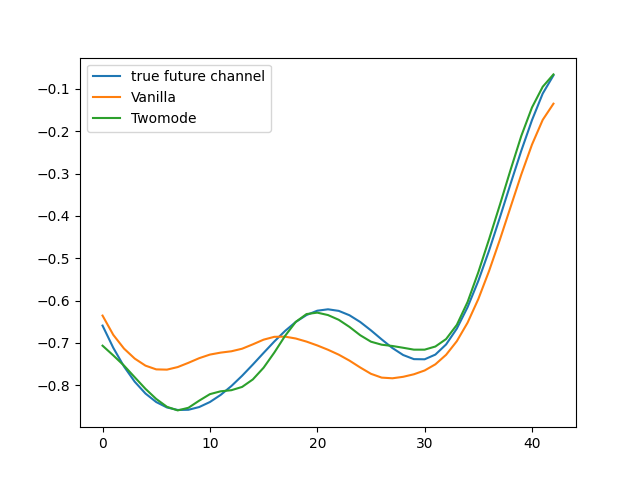
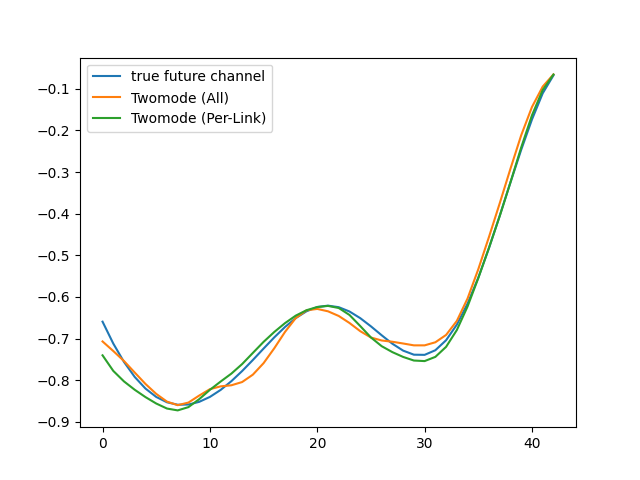
doing per-link twomode WESN

diff --git a/dmimo/dmimo_chanpred.py b/dmimo/dmimo_chanpred.py
@@ -199,7 +199,7 @@ class MU_MIMO(Model):
                                     batch_size=self.batch_size)
             h_freq_csi_true = rc_predictor_vanilla.rb_mapper(h_freq_csi_true)
             
-            h_freq_csi_vanilla = rc_predictor_vanilla.predict(h_freq_csi_history)
+            h_freq_csi_vanilla = rc_predictor_vanilla.predict(h_freq_csi_history[-3:,...])
             pred_nmse_wesn = self.nmse(h_freq_csi_true[0,...], h_freq_csi_vanilla[0,...])
             print("Vanilla WESN NMSE: ", pred_nmse_wesn)
 
@@ -220,22 +220,78 @@ class MU_MIMO(Model):
 
 
 
-            # Use 2-mode ESN to do WESN based prediction
+            # Use 2-mode ESN to do WESN based prediction (all together)
             twomode_predictor = twomode_wesn_pred(rc_config=self.rc_config, 
                                                  num_freq_re=RB, 
                                                  num_rx_ant=RxAnt, 
                                                  num_tx_ant=TxAnt
                                                  )
-            h_freq_csi_twomode = twomode_predictor.predict(h_freq_csi_history)
-            pred_nmse_twomode_wesn = self.nmse(h_freq_csi_true[0,...], h_freq_csi_twomode[0,...])
-            print("Two-Mode WESN NMSE: ", pred_nmse_twomode_wesn)
+            h_freq_csi_twomode_all = twomode_predictor.predict(h_freq_csi_history)
+            pred_nmse_twomode_wesn_all = self.nmse(h_freq_csi_true[0,...], h_freq_csi_twomode_all[0,...])
+            print("Two-Mode (All) WESN NMSE: ", pred_nmse_twomode_wesn_all)
 
-            # plt.figure()
-            # plt.plot(np.real(h_freq_csi_true[0,0,0,0,0,0,:]), label='true future channel')
+
+
+
+
+
+
+
+
+
+
+
+
+
+
+
+            # Use 2-mode ESN to do WESN based prediction (per_tx_rx_node_pair)
+
+            h_freq_csi_twomode_per_link = np.zeros(h_freq_csi_history[0,...].shape, dtype=h_freq_csi_history.dtype)
+            num_bs_ant = 4
+            num_ue_ant = 2
+
+            for tx_node_idx in range(self.cfg.num_tx_ue_sel+1):
+                for rx_node_idx in range(self.cfg.num_rx_ue_sel+1):
+                    if tx_node_idx == 0:
+                        tx_ant_idx = np.arange(0,num_bs_ant)
+                    else:
+                        tx_ant_idx = np.arange(num_bs_ant + (tx_node_idx-1)*num_ue_ant,num_bs_ant + (tx_node_idx)*num_ue_ant)
+                    TxAnt = len(tx_ant_idx)
+
+                    if rx_node_idx == 0:
+                        rx_ant_idx = np.arange(0,num_bs_ant)
+                    else:
+                        rx_ant_idx = np.arange(num_bs_ant + (rx_node_idx-1)*num_ue_ant,num_bs_ant + (rx_node_idx)*num_ue_ant)
+                    RxAnt = len(rx_ant_idx)
+
+                    curr_h_freq_csi_history = h_freq_csi_history[:,:,:,rx_ant_idx,:,...]
+                    curr_h_freq_csi_history = curr_h_freq_csi_history[:,:,:,:,:,tx_ant_idx,...]
+                    
+                    twomode_predictor = twomode_wesn_pred(rc_config=self.rc_config, 
+                                                num_freq_re=RB, 
+                                                num_rx_ant=RxAnt, 
+                                                num_tx_ant=TxAnt
+                                                )
+                    rx_idx, tx_idx = np.ix_(rx_ant_idx, tx_ant_idx)
+                    tmp = np.asarray(twomode_predictor.predict(curr_h_freq_csi_history))
+                    h_freq_csi_twomode_per_link[:, :, rx_idx, :, tx_idx, :, :] = tmp.transpose(2, 4, 0, 1, 3, 5, 6)
+
+            pred_nmse_twomode_wesn_per_link = self.nmse(h_freq_csi_true[0,...], h_freq_csi_twomode_per_link[0,...])
+            print("Two-Mode (Per-Link) WESN NMSE: ", pred_nmse_twomode_wesn_per_link)
+
+            plt.figure()
+            plt.plot(np.real(h_freq_csi_true[0,0,0,0,0,0,:]), label='true future channel')
             # plt.plot(np.real(h_freq_csi_vanilla[0,0,0,0,0,0,:]), label='Vanilla')
-            # plt.plot(np.real(h_freq_csi_twomode[0,0,0,0,0,0,:]), label='Twomode')
-            # plt.legend()
-            # plt.savefig('b')
+            plt.plot(np.real(h_freq_csi_twomode_all[0,0,0,0,0,0,:]), label='Twomode (All)')
+            plt.plot(np.real(h_freq_csi_twomode_per_link[0,0,0,0,0,0,:]), label='Twomode (Per-Link)')
+            plt.legend()
+            plt.savefig('b')
+
+
+
+
+
 
 
 
@@ -247,22 +303,22 @@ class MU_MIMO(Model):
 
 
             # Use 2-mode Graph ESN to do WESN based prediction
-            graph_twomode_predictor = twomode_graph_wesn_pred(rc_config=self.rc_config, 
-                                                 num_freq_re=RB, 
-                                                 num_rx_ant=RxAnt, 
-                                                 num_tx_ant=TxAnt
-                                                )
-            h_freq_csi_graph_twomode = graph_twomode_predictor.predict(h_freq_csi_history)
-            pred_nmse_graph_twomode_wesn = self.nmse(h_freq_csi_true[0,...], h_freq_csi_graph_twomode[0,...])
-            print("Two-Mode Graph WESN NMSE: ", pred_nmse_graph_twomode_wesn)
+            # graph_twomode_predictor = twomode_graph_wesn_pred(rc_config=self.rc_config, 
+            #                                      num_freq_re=RB, 
+            #                                      num_rx_ant=RxAnt, 
+            #                                      num_tx_ant=TxAnt
+            #                                     )
+            # h_freq_csi_graph_twomode = graph_twomode_predictor.predict(h_freq_csi_history)
+            # pred_nmse_graph_twomode_wesn = self.nmse(h_freq_csi_true[0,...], h_freq_csi_graph_twomode[0,...])
+            # print("Two-Mode Graph WESN NMSE: ", pred_nmse_graph_twomode_wesn)
 
-            plt.figure()
-            plt.plot(np.real(h_freq_csi_true[0,0,0,0,0,0,:]), label='true future channel')
-            plt.plot(np.real(h_freq_csi_vanilla[0,0,0,0,0,0,:]), label='Vanilla')
-            plt.plot(np.real(h_freq_csi_twomode[0,0,0,0,0,0,:]), label='Twomode')
-            plt.plot(np.real(h_freq_csi_graph_twomode[0,0,0,0,0,0,:]), label='Graph Twomode')
-            plt.legend()
-            plt.savefig('a')
+            # plt.figure()
+            # plt.plot(np.real(h_freq_csi_true[0,0,0,0,0,0,:]), label='true future channel')
+            # plt.plot(np.real(h_freq_csi_vanilla[0,0,0,0,0,0,:]), label='Vanilla')
+            # plt.plot(np.real(h_freq_csi_twomode[0,0,0,0,0,0,:]), label='Twomode')
+            # plt.plot(np.real(h_freq_csi_graph_twomode[0,0,0,0,0,0,:]), label='Graph Twomode')
+            # plt.legend()
+            # plt.savefig('a')
 
             hold = 1
 
@@ -510,7 +566,8 @@ class MU_MIMO(Model):
         # h_freq_csi_grad_descent =tf.reshape(h_freq_csi_grad_descent, (-1, self.num_rx_ue, 1, *h_freq_csi_grad_descent.shape[3:]))
         h_freq_csi_vanilla = tf.reshape(h_freq_csi_vanilla, (1, self.num_rx_ue, -1, *h_freq_csi_vanilla.shape[3:]))
         # h_freq_csi_kalman = tf.reshape(h_freq_csi_kalman, (-1, self.num_rx_ue, 1, *h_freq_csi_kalman.shape[3:]))
-        h_freq_csi_twomode = tf.reshape(h_freq_csi_twomode, (1, self.num_rx_ue, -1, *h_freq_csi_twomode.shape[3:]))
+        h_freq_csi_twomode_all = tf.reshape(h_freq_csi_twomode_all, (1, self.num_rx_ue, -1, *h_freq_csi_twomode_all.shape[3:]))
+        h_freq_csi_twomode_per_link = tf.reshape(h_freq_csi_twomode_per_link, (1, self.num_rx_ue, -1, *h_freq_csi_twomode_per_link.shape[3:]))
 
         # h_freq_csi_vanilla = tf.transpose(h_freq_csi_vanilla, perm=[1,2,0,3,4,5,6])
         # h_freq_csi_twomode = tf.transpose(h_freq_csi_twomode, perm=[1,2,0,3,4,5,6])
@@ -523,16 +580,16 @@ class MU_MIMO(Model):
             
             rx_snr_db = snr
 
-            for curr_method in range(3):
+            for curr_method in range(4):
 
                 if curr_method == 0:
                     h_freq_csi = h_freq_csi_outdated
                 elif curr_method == 1:
                     h_freq_csi = h_freq_csi_vanilla
                 elif curr_method == 2:
-                    h_freq_csi = h_freq_csi_twomode
+                    h_freq_csi = h_freq_csi_twomode_all
                 else:
-                    h_freq_csi = h_freq_csi_kalman
+                    h_freq_csi = h_freq_csi_twomode_per_link
                 
                 h_freq_csi = tf.repeat(h_freq_csi, repeats=12, axis=-1)
                 h_freq_csi = h_freq_csi[..., :512]
@@ -609,7 +666,8 @@ class MU_MIMO(Model):
         plt.figure()
         plt.semilogy(SNR_range, uncoded_bers[0, :], label="Outdated Channel")
         plt.semilogy(SNR_range, uncoded_bers[1, :], label="WESN Channel")
-        plt.semilogy(SNR_range, uncoded_bers[2, :], label="Twomode WESN Channel")
+        plt.semilogy(SNR_range, uncoded_bers[2, :], label="Twomode (All) WESN Channel")
+        plt.semilogy(SNR_range, uncoded_bers[3, :], label="Twomode (Per-Link) WESN Channel")
         plt.grid()
         plt.legend()
         plt.savefig('bers_tmp')
@@ -635,7 +693,12 @@ class MU_MIMO(Model):
             denom_term = (backend.abs(H_true) + backend.abs(H_pred)) ** 2
 
         denom = backend.reduce_sum(denom_term) if backend is tf else backend.sum(denom_term)
-        return backend.cast(num / denom, backend.float32 if backend is tf else backend.float64)
+        if backend is tf:
+            nmse = backend.cast(num / denom, backend.float32)
+        else:
+            nmse = np.asarray(num / denom, dtype=backend.float64)
+
+        return nmse
 
     def awgn(self, inputs):
 

diff --git a/sims/sim_dmimo_chanpred.py b/sims/sim_dmimo_chanpred.py
@@ -85,7 +85,7 @@ if __name__ == "__main__":
     rc_config.weight_initialization = 'model_based_freq_corr' # "model_based_aoa_aod", "model_based_freq_corr", "model_based_delays" #TODO: find a better edge update method than grad descent. maybe attention based mechanism
     rc_config.mobility = mobility
     rc_config.drop_idx = drop_idx
-    rc_config.history_len = 8
+    rc_config.history_len = 16
     cfg.graph_formulation = 'per_antenna_pair' # "per_node_pair", "per_antenna_pair", "supergraph"
     cfg.num_tx_streams = 1
     cfg.modulation_order = 2
